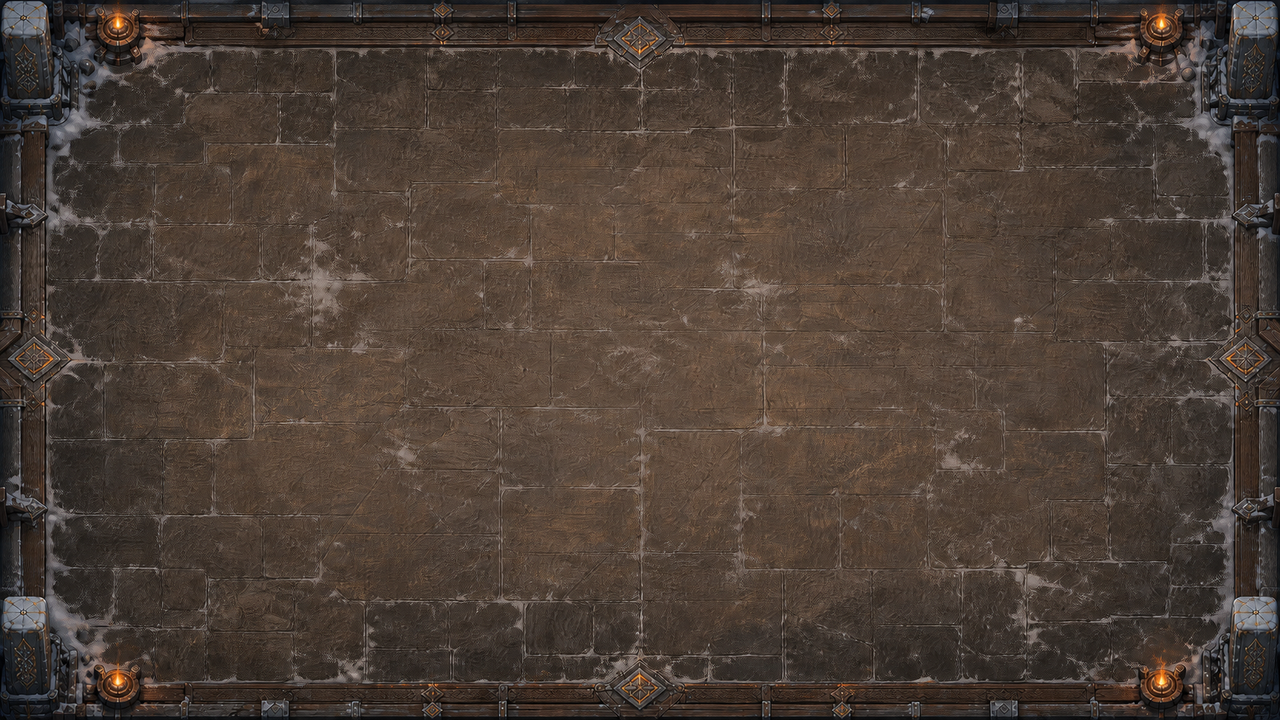
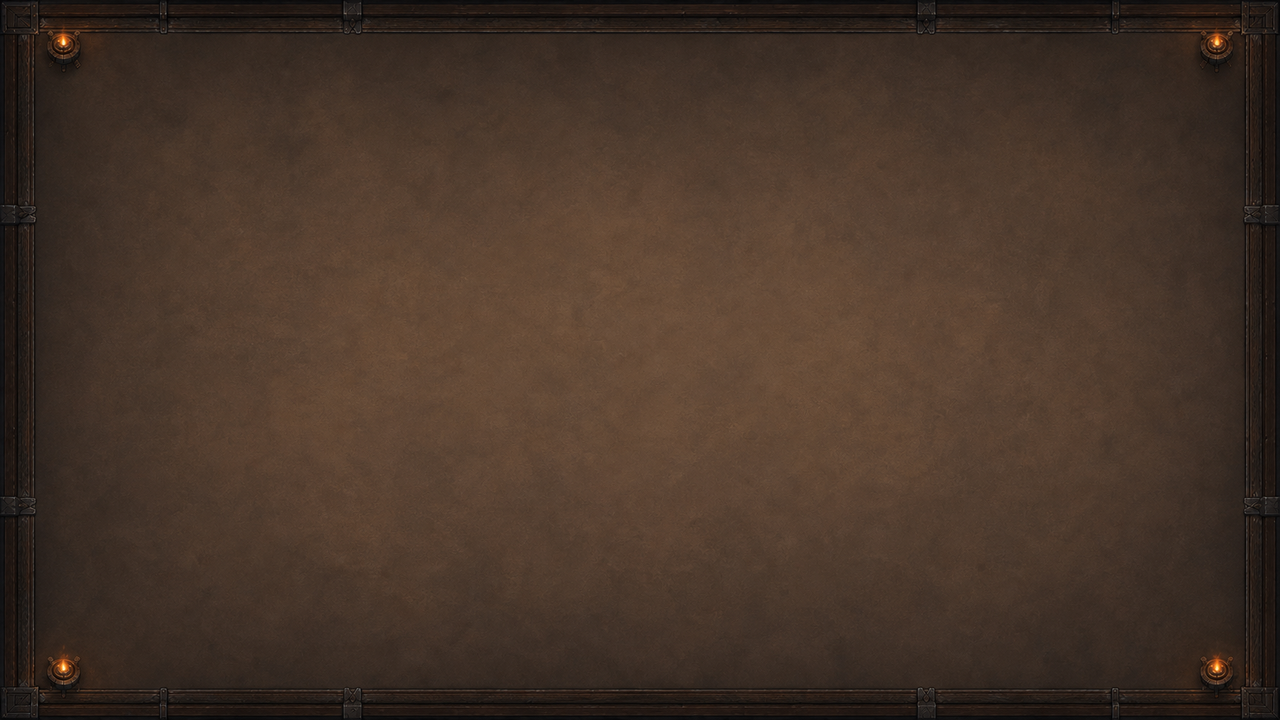
fix: refine Frostfire presentation and motion

diff --git a/src/host/ArenaSurvivorRenderer.ts b/src/host/ArenaSurvivorRenderer.ts
@@ -202,7 +202,9 @@ function resolveWeaponDisplaySize(
   );
 
   if (equippedWeapon?.category !== "melee") {
-    return baseDisplaySize;
+    return equippedWeapon?.category === "ranged"
+      ? baseDisplaySize * arenaSurvivorVisualConfig.weaponSlots.rangedSpriteScale
+      : baseDisplaySize;
   }
 
   const effectiveRange = weaponState?.effectiveRange ?? weaponState?.lastAttackReachDistance ?? 0;
@@ -914,6 +916,7 @@ export function syncArenaSurvivorSpriteLayer(
     enemySprite.setVisible(true);
     enemySprite.setPosition(enemy.x, enemy.y);
     enemySprite.setDisplaySize(displaySize, displaySize);
+    enemySprite.setFlipX(enemy.vx < -1);
     enemySprite.setAlpha(0.92);
   }
 
@@ -970,7 +973,15 @@ export function syncArenaSurvivorSpriteLayer(
       nextWeaponSprite.setVisible(player.alive);
       nextWeaponSprite.setPosition(weaponPose.x, weaponPose.y);
       nextWeaponSprite.setDisplaySize(displaySize, displaySize);
-      nextWeaponSprite.setRotation(weaponPose.aimAngle + Math.PI / 2);
+      const mirrorRangedWeapon =
+        equippedWeapon.category === "ranged" &&
+        Math.cos(weaponPose.aimAngle) < 0;
+      nextWeaponSprite.setFlipY(mirrorRangedWeapon);
+      nextWeaponSprite.setRotation(
+        mirrorRangedWeapon
+          ? weaponPose.aimAngle - Math.PI / 2
+          : weaponPose.aimAngle + Math.PI / 2
+      );
       nextWeaponSprite.setAlpha(player.alive ? 0.98 : 0.38);
       activeWeaponKeys.add(spriteId);
     }

diff --git a/src/host/ArenaSurvivorHostScene.ts b/src/host/ArenaSurvivorHostScene.ts
@@ -11,7 +11,6 @@ import {
 } from "./ArenaSurvivorRenderer.js";
 import { createArenaHud } from "./hud/ArenaHud.js";
 import { loadArenaSurvivorAssets, resolveArenaSurvivorBackgroundKey } from "./arenaSurvivorAssets.js";
-import { ArenaSurvivorAudio } from "./ArenaSurvivorAudio.js";
 
 interface HostClientLike {
   subscribe(callback: (state: HostAppStateLike) => void): () => void;
@@ -32,7 +31,6 @@ export class ArenaSurvivorHostScene extends Phaser.Scene {
   private entityGraphics?: Phaser.GameObjects.Graphics;
   private playerHealthGraphics?: Phaser.GameObjects.Graphics;
   private hud?: ReturnType<typeof createArenaHud>;
-  private audio = new ArenaSurvivorAudio();
   private spriteLayer = createArenaSurvivorSpriteLayer();
   private lastRoundNumber: number | null = null;
   private lastViewportKey = "";
@@ -56,7 +54,6 @@ export class ArenaSurvivorHostScene extends Phaser.Scene {
     this.entityGraphics = this.add.graphics();
     this.playerHealthGraphics = this.add.graphics().setDepth(12);
     this.hud = createArenaHud();
-    this.audio.attachUnlockListeners();
 
     this.unsubscribe = client.subscribe((state) => {
       const gameState = (state.game?.state ?? null) as ArenaSurvivorState | null;
@@ -66,7 +63,6 @@ export class ArenaSurvivorHostScene extends Phaser.Scene {
       }
 
       if (!gameState) {
-        this.audio.syncState(null);
         this.arenaBackground?.setVisible(false);
         this.arenaGraphics.clear();
         this.entityGraphics.clear();
@@ -90,7 +86,6 @@ export class ArenaSurvivorHostScene extends Phaser.Scene {
       }
 
       const viewportKey = `${gameState.arenaWidth}x${gameState.arenaHeight}:${gameState.visualTheme}`;
-      this.audio.syncState(gameState);
       const shouldResetArena =
         this.lastRoundNumber !== state.game?.roundNumber || this.lastViewportKey !== viewportKey;
       const meta = resolveArenaSurvivorRenderMeta(this, gameState);
@@ -149,7 +144,6 @@ export class ArenaSurvivorHostScene extends Phaser.Scene {
       this.spriteLayer.weaponSprites.clear();
       this.hud?.destroy();
       this.hud = undefined;
-      this.audio.destroy();
       this.lastRoundNumber = null;
       this.lastViewportKey = "";
     });

diff --git a/src/host/arenaSurvivorVisualConfig.ts b/src/host/arenaSurvivorVisualConfig.ts
@@ -25,6 +25,7 @@ export interface ArenaSurvivorVisualConfig {
   weaponSlots: {
     spriteDisplaySizeMultiplier: number;
     minSpriteDisplaySize: number;
+    rangedSpriteScale: number;
     fallbackDotRadiusMultiplier: number;
     minFallbackDotRadius: number;
     meleeSpriteRangeRatio: number;
@@ -60,6 +61,7 @@ export const arenaSurvivorVisualConfig: ArenaSurvivorVisualConfig = {
   weaponSlots: {
     spriteDisplaySizeMultiplier: 1.75,
     minSpriteDisplaySize: 20,
+    rangedSpriteScale: 1.25,
     fallbackDotRadiusMultiplier: 0.16,
     minFallbackDotRadius: 2.8,
     meleeSpriteRangeRatio: 0.42,

diff --git a/docs/generated-assets.md b/docs/generated-assets.md
@@ -32,6 +32,6 @@ Polished hand-painted Nordic storybook game art with gouache texture, carved dar
 
 All prompts prohibited text, labels, logos, trademarks, and watermarks. The final runtime assets are stored under `public/host/arena-survivor/themes/frostfire-saga` and `public/controller/arena-survivor/themes/frostfire-saga`.
 
-The active background is `backgrounds/frostfire-arena.png`. The retained alternatives are `backgrounds/frostfire-arena-ice.png` and `backgrounds/frostfire-arena-ritual.png`.
+The active background is `backgrounds/frostfire-arena.png`, a deliberately quiet packed-earth playfield with a thin rectangular border. The retained alternatives are `backgrounds/frostfire-arena-brown-stone.png`, `backgrounds/frostfire-arena-ice.png`, and `backgrounds/frostfire-arena-ritual.png`.
 
-Frostfire's background music is generated at runtime with the Web Audio API. It uses an original D-minor pentatonic melody, low Nordic-style drone, ice-bell overtones, and a restrained pulse, so no third-party music file or license is required.
+Frostfire's background music is generated by the platform's central Web Audio music controller. The theme selects its own original D-minor Nordic profile and reuses the host-wide audio unlock and crossfade flow, so no third-party music file or license is required.